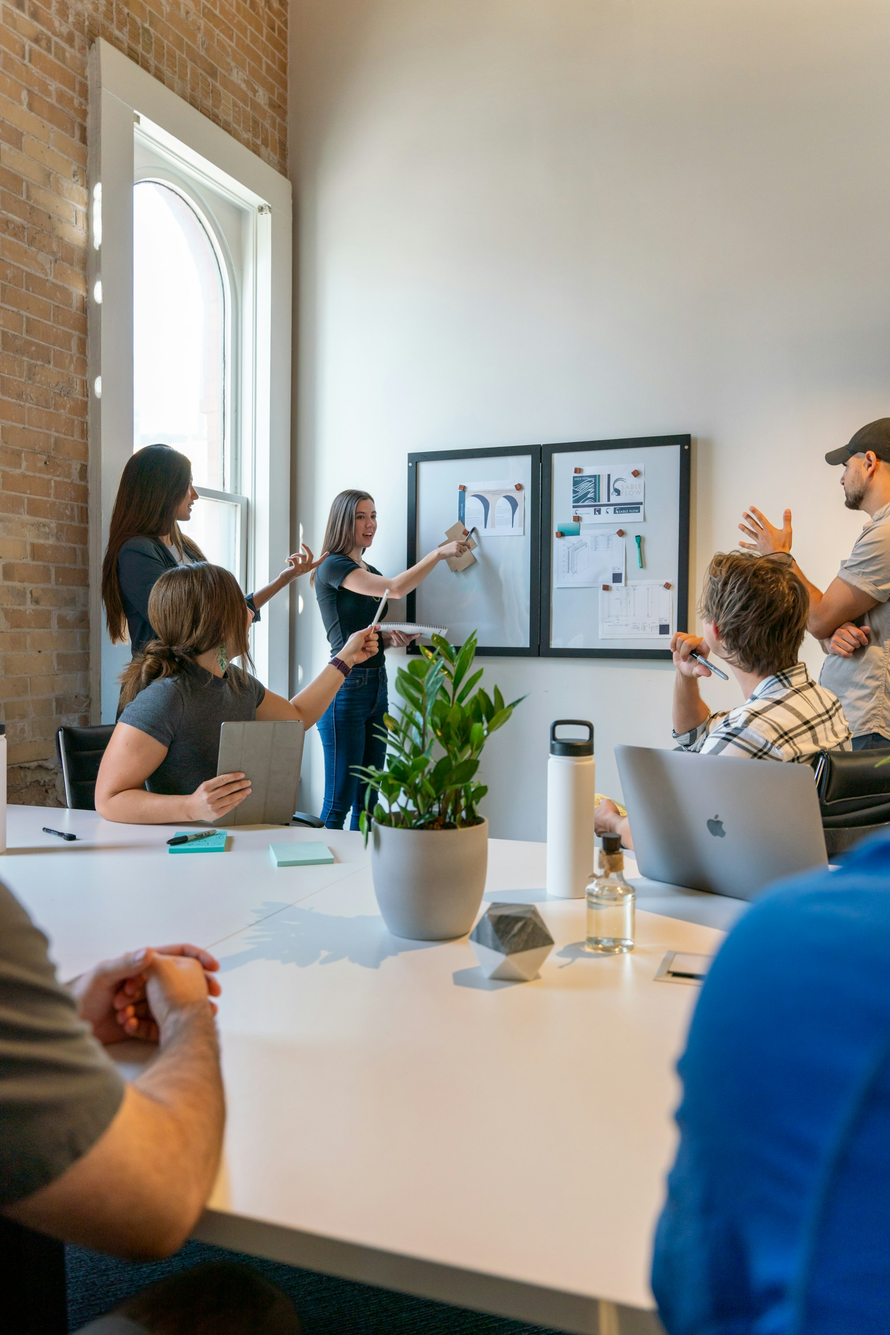
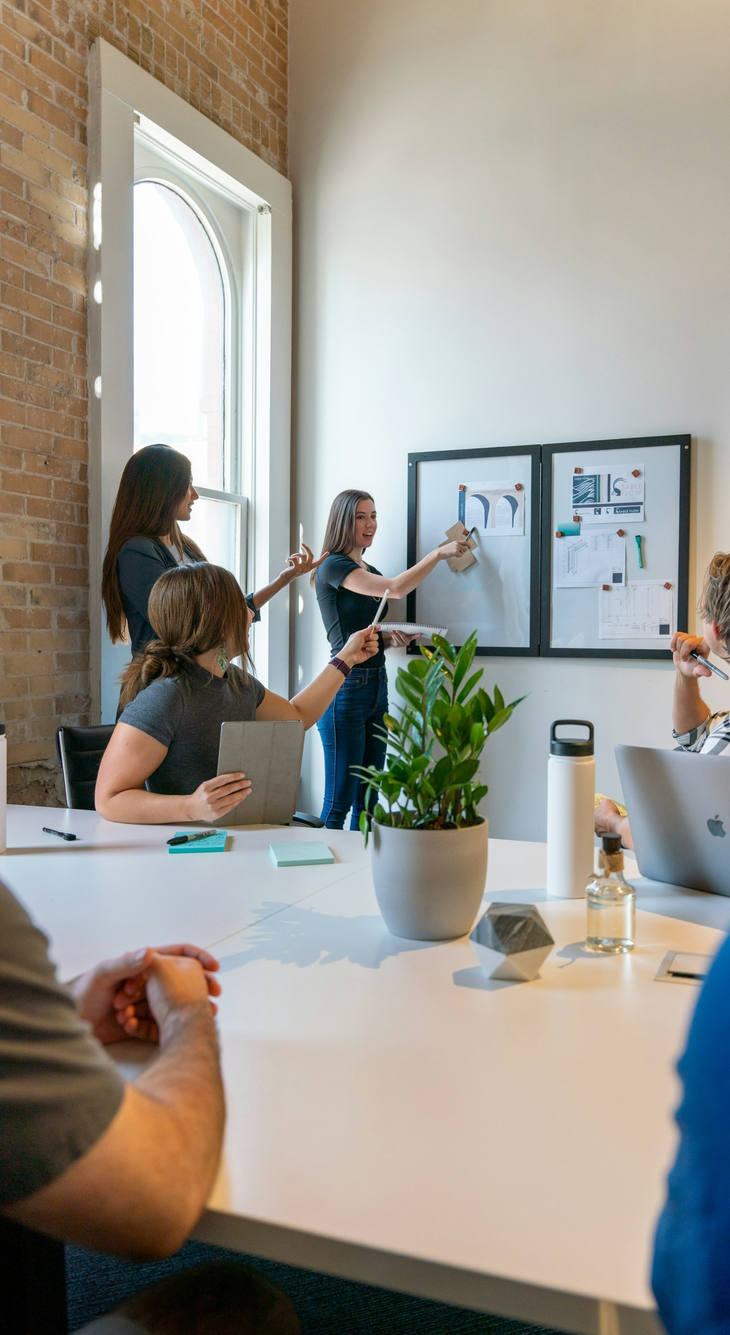
Crop capped colleague out of homepage hero photo
Trims the right edge of the hero image to remove a figure wearing
a baseball cap, keeping the presenter, board and rest of the group intact.

diff --git a/src/components/homepage/Hero.tsx b/src/components/homepage/Hero.tsx
@@ -32,8 +32,8 @@ export function Hero({ data }: { data: HomePageData }) {
             <Image
               src="/images/hero-team.jpg"
               alt="A team presenting and working together in a bright modern office"
-              width={2000}
-              height={2500}
+              width={1640}
+              height={2998}
               className="h-full w-full object-cover grayscale transition-all duration-500 ease-out group-hover:grayscale-0"
               priority
             />
